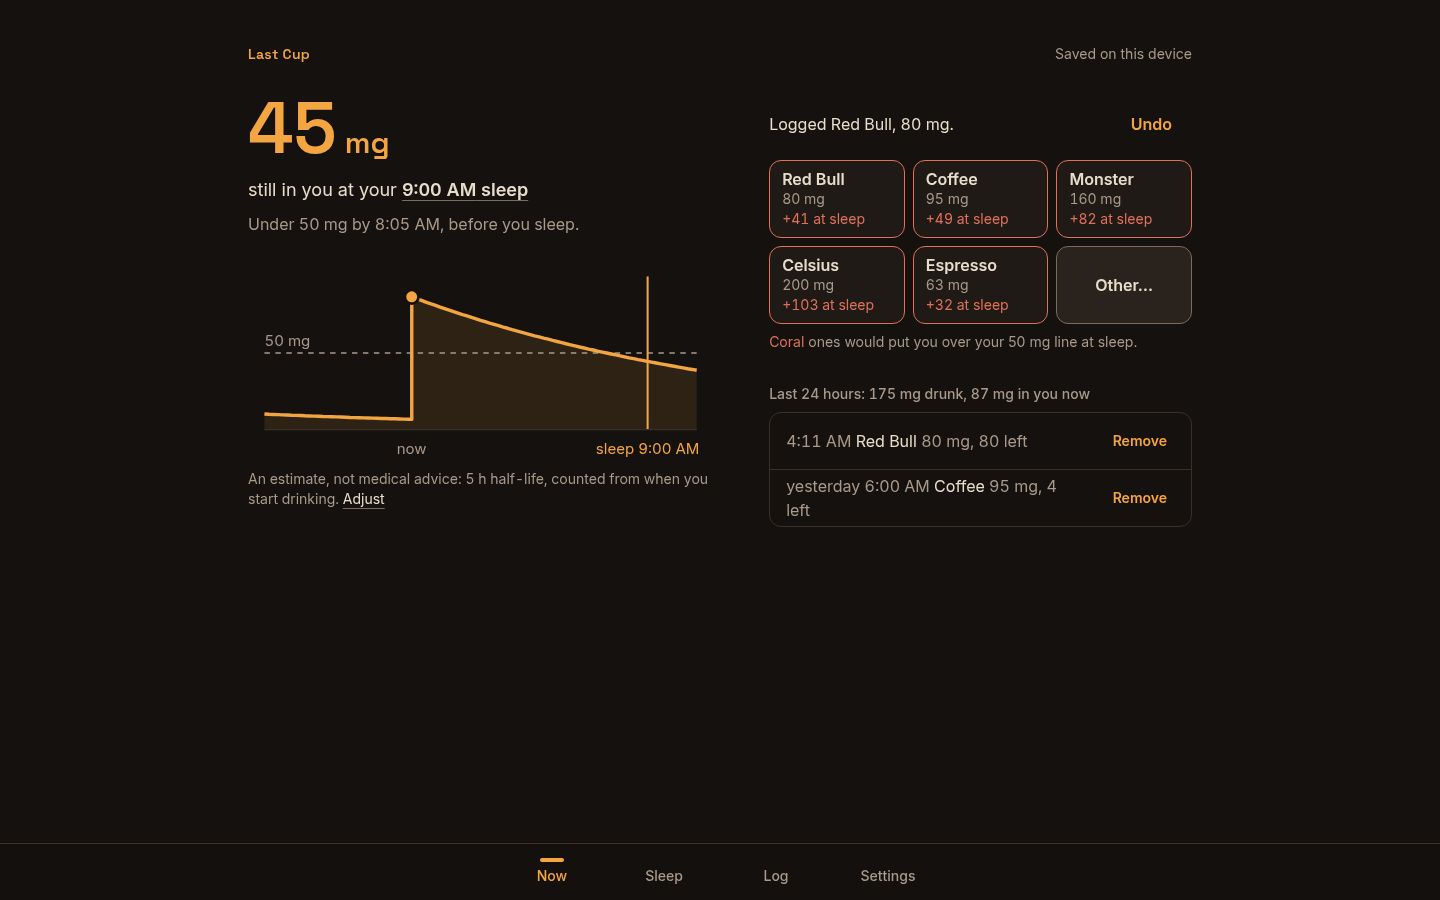
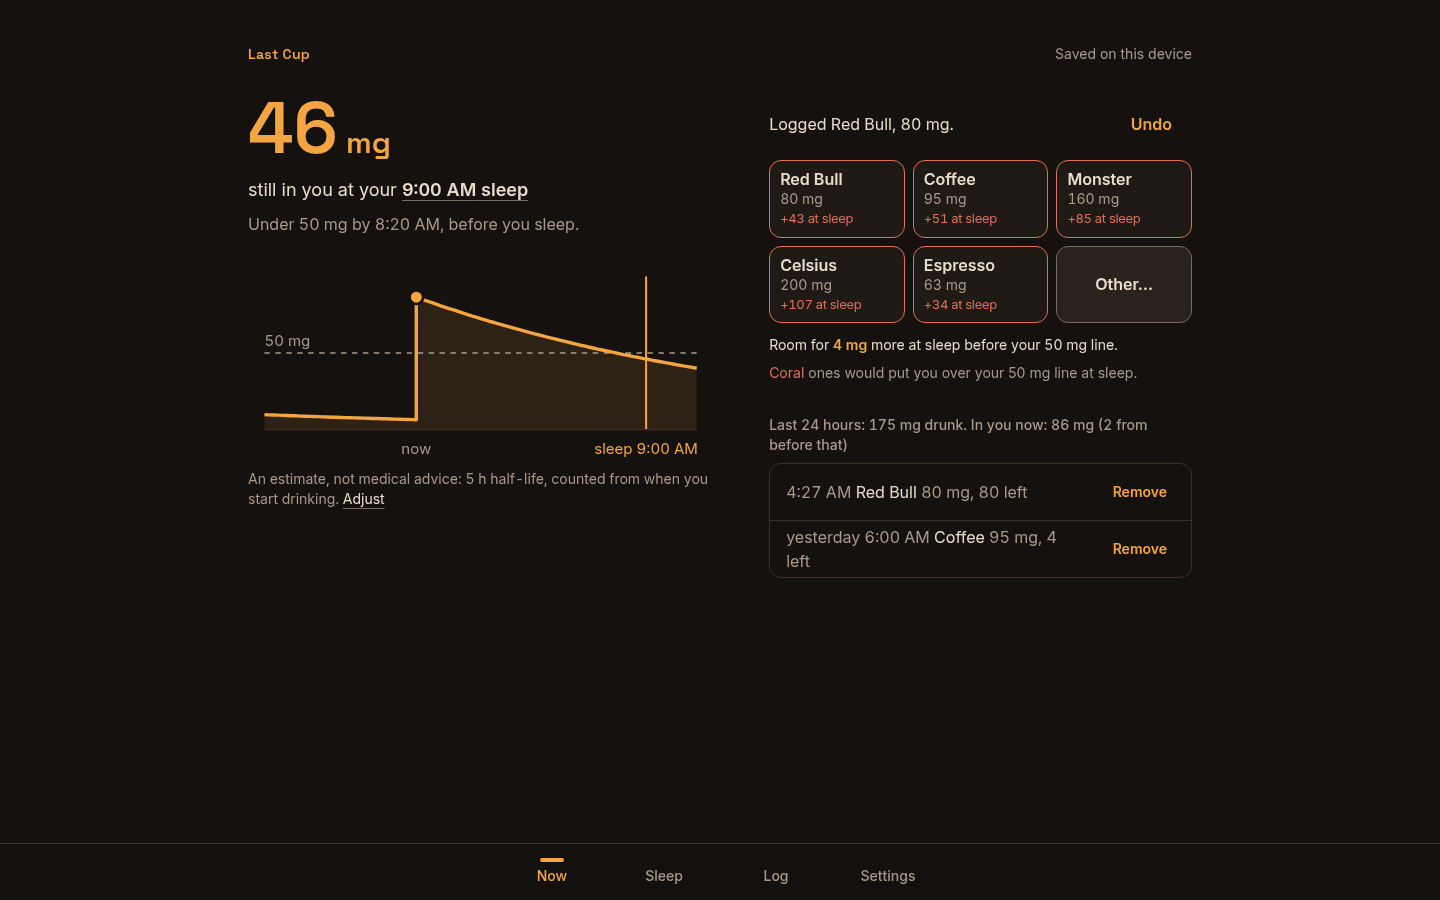
readme: retake the screens from the live site with the final wording; tick G22

diff --git a/README.md b/README.md
@@ -18,7 +18,7 @@ On a laptop, Now uses two columns:
 
 1. Open the app. One question: when are you sleeping next? At 4am it has already filled in 9:00 AM. Tap **Next**.
 2. Every drink shows what it would leave at sleep *before* you tap it: "Red Bull · 80 mg · +30 at sleep". Tap **Red Bull**: "30 mg still in you at your 9:00 AM sleep".
-3. Come back on your next shift: "Welcome back. Last time: 2 drinks, and 93 mg still in you when you slept yesterday at 9:00 AM", a bar for each recent sleep, and one tap for "Same as last time".
+3. Come back on your next shift: "Welcome back. Last time: 2 drinks, and 96 mg still in you when you slept yesterday at 9:00 AM", a bar for each recent sleep, and one tap for "Same as last time".
 
 ## Where each part of the brief is
 
@@ -115,7 +115,7 @@ flowchart LR
 flowchart TD
   A([Open on the next shift]) --> B{"Is the saved sleep<br/>still ahead?"}
   B -- "yes" --> N["/ Now<br/>your drinks from the last 24 h,<br/>the chips you use most first"]
-  B -- "no, it passed" --> S["/sleep<br/>Welcome back.<br/>Last time: 2 drinks, and 93 mg still in you<br/>when you slept yesterday at 9:00 AM."]
+  B -- "no, it passed" --> S["/sleep<br/>Welcome back.<br/>Last time: 2 drinks, and 96 mg still in you<br/>when you slept yesterday at 9:00 AM."]
   S --> P["Over your 50 mg line at 4 of your last 6 sleeps.<br/>one bar per sleep, Tue … Sun"]
   P -- "Same as last time: 9:00 AM today" --> N
   P -- "change the time, then Use the time above" --> N
@@ -282,7 +282,7 @@ After round 1, a separate subagent graded the repo and the live site cold, as th
 
 - **Keyboard:** every control is a real `<button>`, `<a>` or `<input>`. Tab order on Now: wordmark → sleep time → Adjust → drink chips → Other… → history → nav. A 3px amber focus ring shows on every one, and the nav draws its ring inside the tab so the screen edge can't clip it. Checked in headless Chrome by tabbing and printing the focused element.
 - **Labels:** every input has a `<label for>`, including the checkbox (the shared `Field` and `Checkbox`). Hints and errors are tied to their input with `aria-describedby`, and invalid fields get `aria-invalid`. On a failed submit, focus moves to the first field to fix, and nothing typed is cleared.
-- **Live updates:** the hero number and the "Logged / Removed …, Undo" line are `aria-live="polite"`. Each chip's accessible name says what it adds at sleep. Each bar on the welcome-back card has a text equivalent ("93 mg when you slept yesterday at 9:00 AM").
+- **Live updates:** the hero number and the "Logged / Removed …, Undo" line are `aria-live="polite"`. Each chip's accessible name says what it adds at sleep. Each bar on the welcome-back card has a text equivalent ("96 mg when you slept yesterday at 9:00 AM").
 - **Structure:** a page title per route ("Log a drink · Last Cup") and one `<h1>` each. Units shown inside inputs ("mg") are in the label for screen readers ("Caffeine, in mg").
 - **Contrast**, computed by the agent with [`scripts/contrast.mjs`](scripts/contrast.mjs) (WCAG 2.1 formula, no packages). Run `node scripts/contrast.mjs`; it exits non-zero if any pair fails.
 

diff --git a/CHECKLIST.md b/CHECKLIST.md
@@ -113,7 +113,7 @@ A fresh subagent graded the repo and the live URL cold against the brief, as the
 | G19 | README had no screenshots; first-run check was 7th of 11 sections | Four-screen strip like the brief's figure at the top; brief → evidence table; reordered | ☑ `8de97e8` |
 | G20 | On a laptop the app is a narrow phone column | Two-column Now at desktop width; wordmark links home | ☑ `2e3f2f8`, screenshot `docs/desktop-now.png` |
 | G21 | Nurses use it from the home screen | Web app manifest (name, icon, colours), no packages | ☑ `7242f58` |
-| G22 | First-run check ran once, before these changes | Round 2: new persona on the live URL after the fixes, feedback and changes in README | ☐ |
+| G22 | First-run check ran once, before these changes | Round 2: new persona on the live URL after the fixes, feedback and changes in README | ☑ PhD student at 3pm; 10 fixes in `a56ed85`…`b440fd6`, re-checked on a production build and live |
 | G23 | Talking points for class are scattered | `TALK.md`: the five questions, answered briefly | ☑ `929ba53` |
 
 **Not changed:** commit timestamps. Some commits cluster within minutes because each was committed as soon as it was verified; rewriting history to look spread out would misrepresent it.

diff --git a/TALK.md b/TALK.md
@@ -21,7 +21,7 @@ The five things the brief says to be ready to explain. About a minute each. Open
 ## 3. Retention: what brings someone back, and what it remembers
 
 - **The trigger is real:** every shift you're deciding "can I have another coffee?" That's the moment to open it.
-- **Coming back after your sleep:** "Welcome back. Last time: 2 drinks, and 93 mg still in you when you slept yesterday at 9:00 AM." Then a bar per recent sleep: "Over your 50 mg line at 4 of your last 6 sleeps." That pattern is the reason to keep logging.
+- **Coming back after your sleep:** "Welcome back. Last time: 2 drinks, and 96 mg still in you when you slept yesterday at 9:00 AM." Then a bar per recent sleep: "Over your 50 mg line at 4 of your last 6 sleeps." That pattern is the reason to keep logging.
 - **One tap:** "Same as last time: 9:00 AM today".
 - **What it remembers, in localStorage only:** drinks for 30 days, the last 14 sleeps, the next sleep, the half-life and sleep line, custom one-tap drinks (most-used float to the front), and even a half-typed form.
 

diff --git a/flows.md b/flows.md
@@ -78,7 +78,7 @@ flowchart LR
 flowchart TD
   A([Open on the next shift]) --> B{"Is the saved sleep<br/>still ahead?"}
   B -- "yes" --> N["/ Now<br/>your drinks from the last 24 h,<br/>the chips you use most first"]
-  B -- "no, it passed" --> S["/sleep<br/>Welcome back.<br/>Last time: 2 drinks, and 93 mg still in you<br/>when you slept yesterday at 9:00 AM."]
+  B -- "no, it passed" --> S["/sleep<br/>Welcome back.<br/>Last time: 2 drinks, and 96 mg still in you<br/>when you slept yesterday at 9:00 AM."]
   S --> P["Over your 50 mg line at 4 of your last 6 sleeps.<br/>one bar per sleep, Tue … Sun"]
   P -- "Same as last time: 9:00 AM today" --> N
   P -- "change the time, then Use the time above" --> N
